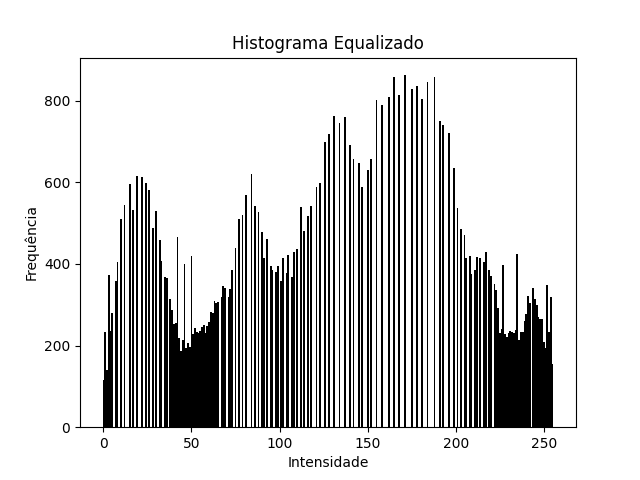
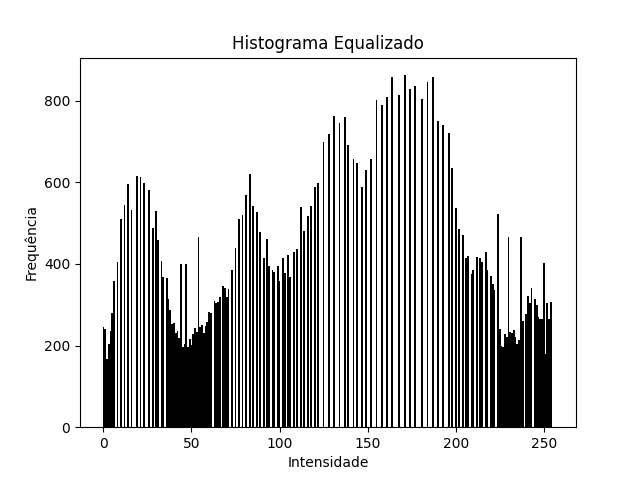
melhorias na main screen

Changed region(s): [[0.1562, 0.1562, 0.875, 0.9062]]

diff --git a/src/project_ip/histogram/equalize_histogram.py b/src/project_ip/histogram/equalize_histogram.py
@@ -1,22 +1,38 @@
 import sys
-import cv2
 import numpy as np
 import matplotlib.pyplot as plt
 from pathlib import Path
+from PIL import Image
+
 
 def plot_histogram(image, title, output_path):
     hist, bins = np.histogram(image.flatten(), bins=256, range=[0, 256])
     plt.figure()
     plt.title(title)
     plt.bar(bins[:-1], hist, width=1, color='black')
-    plt.xlabel('Intensidade')
-    plt.ylabel('Frequência')
+    plt.xlabel('K (Níveis de cinza)')
+    plt.ylabel('Ps(sk)')
     plt.savefig(output_path, dpi=100)
     plt.close()
 
+
+def calcule_histogram(image):
+    # Obtém o histograma da imagem
+    hist, bins = np.histogram(image.flatten(), bins=256, range=[0, 256])
+
+    # Calcula a distribuição acumulada de probabilidades
+    cdf = hist.cumsum()
+    cdf_normalized = (cdf - cdf.min()) * 255 / (cdf.max() - cdf.min())
+
+    # Aplica a transformação de mapeamento para equalização
+    equalized_image = cdf_normalized[image].astype('uint8')
+
+    return equalized_image
+
+
 def main(input_image_path, output_dir):
     # Leitura da imagem PGM
-    image = cv2.imread(input_image_path, cv2.IMREAD_GRAYSCALE)
+    image = np.array(Image.open(input_image_path).convert('L'))
 
     if image is None:
         print(f"Erro ao carregar a imagem: {input_image_path}")
@@ -34,21 +50,22 @@ def main(input_image_path, output_dir):
     # Gera o histograma da imagem original
     plot_histogram(image, "Histograma Original", original_hist_path)
 
-    # Equalização do histograma
-    equalized_image = cv2.equalizeHist(image)
+    # Equalização do histograma manualmente
+    equalized_image = calcule_histogram(image)
 
     # Gera o histograma da imagem equalizada
     plot_histogram(equalized_image, "Histograma Equalizado", equalized_hist_path)
 
     # Salva as imagens
-    cv2.imwrite(original_image_path, image)
-    cv2.imwrite(equalized_image_path, equalized_image)
+    Image.fromarray(image).save(original_image_path)
+    Image.fromarray(equalized_image).save(equalized_image_path)
 
     # Retorna os caminhos das saídas
     print(original_hist_path)
     print(equalized_hist_path)
     print(original_image_path)
     print(equalized_image_path)
+
 
 if __name__ == "__main__":
     if len(sys.argv) != 3:

diff --git a/src/project_cg/inputsPanel/transformations2dinputs/ReflectionInputs.java b/src/project_cg/inputsPanel/transformations2dinputs/ReflectionInputs.java
@@ -18,7 +18,7 @@ public class ReflectionInputs extends ShapePanel {
 
     @Override
     protected void initializeInputs() {
-        reflectionTypeComboBox = new JComboBox<>(new String[]{"X", "Y", "Origem", "YX"});
+        reflectionTypeComboBox = new JComboBox<>(new String[]{"X", "Y", "Origem"});
         comboBoxFigures = MainScreenSingleton.getComboBoxGeometriFigures();
 
         addComboBox("Escolha uma figura", comboBoxFigures);

diff --git a/src/project_cg/ecgSimulator/ECGSimulation.java b/src/project_cg/ecgSimulator/ECGSimulation.java
@@ -106,7 +106,7 @@ public class ECGSimulation extends CartesianPlane2D implements ActionListener {
         this.animationDuration = duration; // Define a duração total da animação em milissegundos
         this.startTime = System.currentTimeMillis(); // Marca o início da animação
 
-        this.timer = new Timer(15, this);
+        this.timer = new Timer(1, this);
         this.timer.start();
     }
 

diff --git a/src/view/mainScreen/MainScreen.java b/src/view/mainScreen/MainScreen.java
@@ -79,7 +79,7 @@ public class MainScreen extends JFrame {
 
     public void resetCartesianPlaneScreen() {
         this.JPanelHandler.resetCurrentJPanel();
-        JPanel currentPanel = this.JPanelHandler.getCurrentCartesianPlane();
+        JPanel currentPanel = this.JPanelHandler.getCurrentPanel();
 
         getContentPane().removeAll();
         setLayoutPanel(currentPanel);

diff --git a/src/project_ip/joana/filtros/Media.java b/src/project_ip/joana/filtros/Media.java
@@ -35,7 +35,6 @@ public class Media {
             File inputFile = new File("C/Users/joana/Documents/computacao grafica/imagens (1)/lena.pgm");
             BufferedImage imagemOriginal = ImageIO.read(inputFile);
 
-
             if (imagemOriginal == null) {
                 System.out.println("Erro ao carregar a imagem.");
                 return;

diff --git a/src/project_ip/joana/ImageFilters.java b/src/project_ip/joana/ImageFilters.java
@@ -105,6 +105,7 @@ public class ImageFilters extends JFrame {
         ero3x3 = new JMenuItem("Kernel 3x3");
         ero5x5 = new JMenuItem("Kernel 5x5");
         ero7x7 = new JMenuItem("Kernel 7x7");
+
         dil3x3 = new JMenuItem("Kernel 3x3");
         dil5x5 = new JMenuItem("Kernel 5x5");
         dil7x7 = new JMenuItem("Kernel 7x7");

diff --git a/src/Main.java b/src/Main.java
@@ -8,7 +8,6 @@ public class Main {
         MainScreen mainScreen = MainScreenSingleton.getMainScreen();
         mainScreen.setInputs(new InputsPanel());
         mainScreen.setLocationRelativeTo(null);
-        mainScreen.setResizable(false);
         mainScreen.setLayoutPanel();
         mainScreen.setVisible(true);
     }

diff --git a/src/view/utils/JPanelHandler.java b/src/view/utils/JPanelHandler.java
@@ -44,7 +44,7 @@ public class JPanelHandler {
     }
 
     public void resetCurrentJPanel() {
-        BaseJPanel currentCartesianPlane = getCurrentCartesianPlane();
+        BaseJPanel currentCartesianPlane = getCurrentPanel();
 
         this.cartesiansPlane.put(
                 currentCartesianPlaneString,

diff --git a/src/project_ip/joana/opMorfologico/Dilatacao.java b/src/project_ip/joana/opMorfologico/Dilatacao.java
@@ -7,6 +7,5 @@ public class Dilatacao {
 
     public BufferedImage operadorDilatacao (BufferedImage ImagemOriginal, int dimensaoKernel){
         return Convolucao.ConvolucaoDilatacao(ImagemOriginal,dimensaoKernel);
-
     }
 }

diff --git a/src/project_ip/joana/filtros/Convolucao.java b/src/project_ip/joana/filtros/Convolucao.java
@@ -168,9 +168,6 @@ public class Convolucao {
 
 
         return resultImage;
-
-
-
     }
 
     public static BufferedImage ConvolucaoDilatacao(BufferedImage imagemOriginal, int dimensaoKernel) {

diff --git a/src/project_cg/transformations2d/Reflection.java b/src/project_cg/transformations2d/Reflection.java
@@ -71,4 +71,5 @@ public class Reflection  {
         };
     }
 
+
 }
